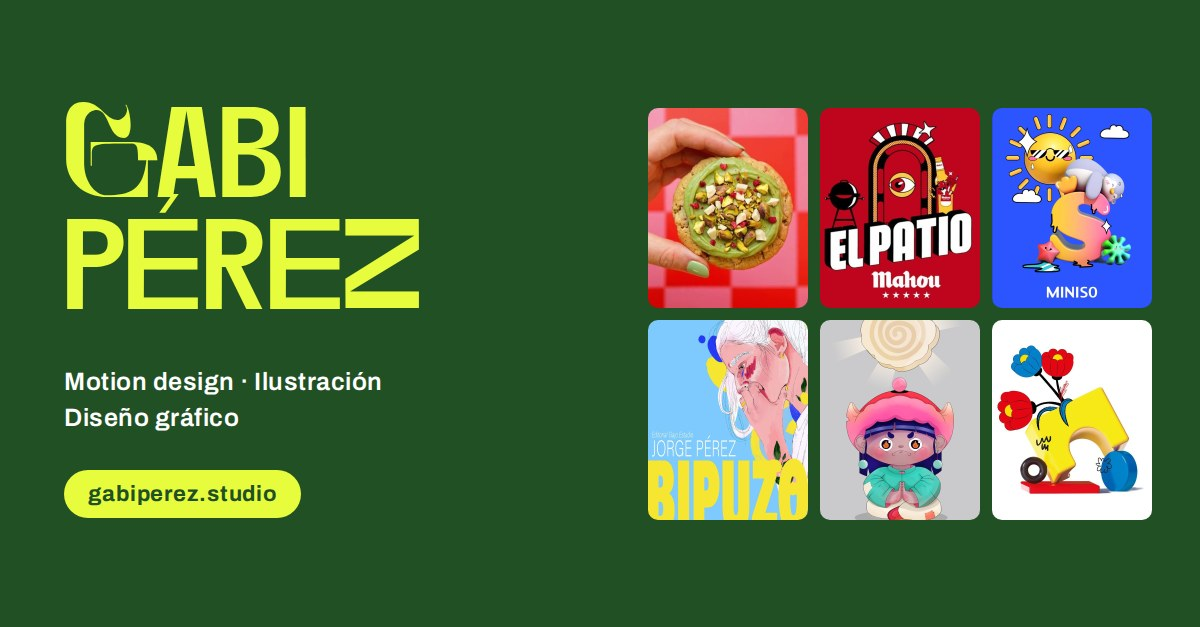
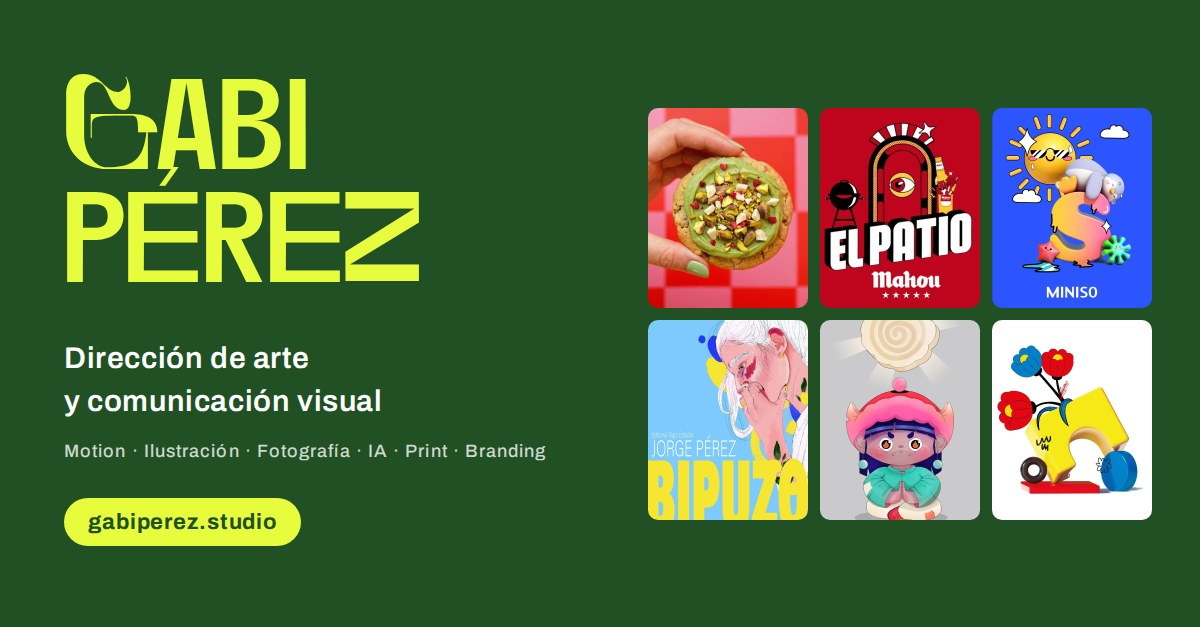
Vista previa: dirección de arte y comunicación visual

Changed region(s): [[0.0308, 0.1212, 0.37, 0.5152], [0.0308, 0.5455, 0.4625, 0.8788]]

diff --git a/index.html b/index.html
@@ -3,13 +3,13 @@
 <head>
 <meta charset="utf-8">
 <meta name="viewport" content="width=device-width, initial-scale=1">
-<title>Gabi Pérez — motion design, ilustración y diseño gráfico</title>
+<title>Gabi Pérez — dirección de arte y comunicación visual</title>
 <meta name="description" content="Gabi Pérez — motion designer, ilustradora y diseñadora gráfica freelance en Alicante.">
 <meta property="og:type" content="website">
 <meta property="og:site_name" content="Gabi Pérez">
 <meta property="og:url" content="https://gabiperez.studio/">
-<meta property="og:title" content="Gabi Pérez — Motion design, ilustración y diseño gráfico">
-<meta property="og:description" content="Portafolio de Gabi Pérez: motion design, ilustración, branding y diseño gráfico desde Alicante.">
+<meta property="og:title" content="Gabi Pérez — Dirección de arte y comunicación visual">
+<meta property="og:description" content="Portafolio de Gabi Pérez: dirección de arte y comunicación visual. Motion, ilustración, fotografía, IA, print y branding desde Alicante.">
 <meta property="og:image" content="https://gabiperez.studio/img/og.jpg">
 <meta property="og:image:width" content="1200">
 <meta property="og:image:height" content="627">

diff --git a/proyecto.html b/proyecto.html
@@ -7,8 +7,8 @@
 <meta property="og:type" content="website">
 <meta property="og:site_name" content="Gabi Pérez">
 <meta property="og:url" content="https://gabiperez.studio/">
-<meta property="og:title" content="Gabi Pérez — Motion design, ilustración y diseño gráfico">
-<meta property="og:description" content="Portafolio de Gabi Pérez: motion design, ilustración, branding y diseño gráfico desde Alicante.">
+<meta property="og:title" content="Gabi Pérez — Dirección de arte y comunicación visual">
+<meta property="og:description" content="Portafolio de Gabi Pérez: dirección de arte y comunicación visual. Motion, ilustración, fotografía, IA, print y branding desde Alicante.">
 <meta property="og:image" content="https://gabiperez.studio/img/og.jpg">
 <meta property="og:image:width" content="1200">
 <meta property="og:image:height" content="627">
